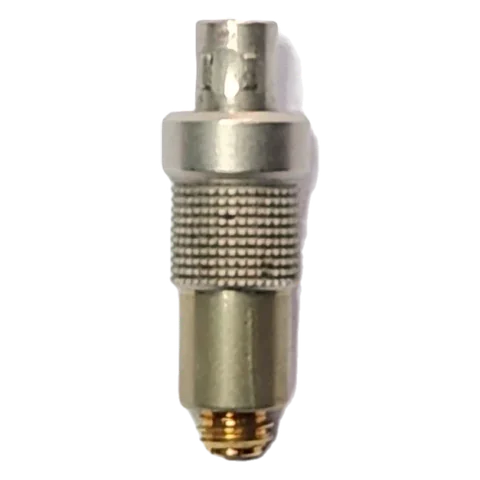
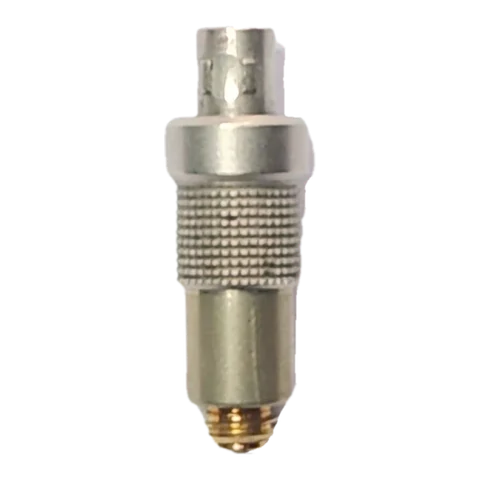
v1.46: cartas sem reordenar, adaptador por unidade, fotos dos adaptadores
Claude-Session: https://claude.ai/code/session_01BhtL332448fDQDCKgyvfQU

Changed region(s): [[0.3125, 0.0312, 0.6875, 0.9688]]

diff --git a/index.html b/index.html
@@ -514,11 +514,20 @@ ul.imd{font-size:.84rem;margin:.3rem 0 0;padding-left:1.2rem}
 @media(hover:hover) and (pointer:fine){.carseta{display:grid;place-items:center}}
 .carrossel,.grid.carr{cursor:grab}.arrastando{cursor:grabbing;scroll-snap-type:none!important;user-select:none}
 .arrastando *{pointer-events:none}
+
+/* v1.46 · unidades de adaptador */
+.adrow{display:flex;align-items:center;gap:.4rem;flex-wrap:wrap;margin:.1rem 0 .4rem;padding:.45rem .55rem;border:1px dashed var(--line);border-radius:8px}
+.adrow .adtit{font-size:.8rem;font-weight:700;color:var(--ink2);margin-right:.2rem}
+.adrow .adfoto{width:2.2rem;height:2.2rem;position:relative;display:inline-block}.adrow .adfoto img,.adrow .adfoto svg{width:100%;height:100%;object-fit:contain}
+.adun{display:flex;flex-direction:column;align-items:center;border:1.5px solid var(--line);background:var(--paper);border-radius:8px;padding:.2rem .55rem;min-width:3.4rem;cursor:pointer}
+.adun b{font:700 1rem var(--fc)}.adun small{font-size:.68rem;color:var(--ink2)}
+.adun.sel{border-color:var(--ink);background:var(--ink);color:#fff}.adun.sel small{color:#c6cbd2}
+.adun:disabled{opacity:.45;cursor:not-allowed}
 </style>
 </head>
 <body>
 <header class="top">
-  <div><h1>Perícia Lab · Carômetro</h1><small>Quem está com qual transmissor e cápsula, episódio a episódio · <span id="versao">v1.45 · 28/10 15:50</span></small></div>
+  <div><h1>Perícia Lab · Carômetro</h1><small>Quem está com qual transmissor e cápsula, episódio a episódio · <span id="versao">v1.46 · 28/10 16:30</span></small></div>
   <div class="sp"></div>
   <button class="pill" id="status" type="button" data-act="sync">carregando…</button>
 </header>
@@ -632,7 +641,7 @@ function normalizar(R){
   d.elenco=linhas(R,'elenco').map(function(o,ix){return {ix:ix,id:str(o['ID']),nome:str(o['Nome'])||str(o['ID']),papel:str(o['Papel']).toUpperCase()||'PARTICIPANTE',colinha:str(o['Colinha (pista)']),foto:str(o['Foto']),elim:int(o['Eliminado após EP']),obs:str(o['Observações']),pista:str(o['Nome de pista'])};}).filter(function(p){return p.id;});
   d.elenco.sort(function(a,b){return (ORDEM_PAPEL[a.papel]==null?9:ORDEM_PAPEL[a.papel])-(ORDEM_PAPEL[b.papel]==null?9:ORDEM_PAPEL[b.papel])||nat(a.colinha||'99',b.colinha||'99')||a.ix-b.ix;});
   d.pPor={};d.elenco.forEach(function(p){d.pPor[p.id]=p;});
-  d.esc=linhas(R,'esc').map(function(o){return {ep:int(o['EP']),id:str(o['ID']),tx:str(o['TX']),cap:str(o['Cápsula']),time:normTime(o['Time']),obs:str(o['Observações']),em:str(o['Atualizado em']),por:str(o['Por'])};}).filter(function(r){return r.ep&&r.id;});
+  d.esc=linhas(R,'esc').map(function(o){return {ep:int(o['EP']),id:str(o['ID']),tx:str(o['TX']),cap:str(o['Cápsula']),ad:str(o['Adaptador']),time:normTime(o['Time']),obs:str(o['Observações']),em:str(o['Atualizado em']),por:str(o['Por'])};}).filter(function(r){return r.ep&&r.id;});
   d.eps=linhas(R,'eps').map(function(o){return {ep:int(o['EP']),a:int(campo(o,['Time A','Vermelho','Equipe A'])),b:int(campo(o,['Time B','Azul','Equipe B'])),data:str(o['Data de gravação'])};}).filter(function(e){return e.ep;}).sort(function(a,b){return a.ep-b.ep;});
   if(!d.eps.length)for(var i=1;i<=8;i++)d.eps.push({ep:i,a:0,b:0,data:''});
   d.imp=linhas(R,'imp').map(function(o){return {gerado:str(o['Report gerado em']),em:str(o['Importado em']),por:str(o['Por']),n:str(o['Transmissores atualizados']),mud:str(o['Mudanças']),nao:str(o['Nomes sem correspondência'])};});
@@ -654,10 +663,11 @@ function aplicar(R,op){
     for(i=R.esc.length-1;i>=0;i--)if(int(R.esc[i]['EP'])===op.ep&&str(R.esc[i]['ID'])===op.id){achou=R.esc[i];break;}
     if(!achou){
       var ef=efetivoCru(R,op.ep)[op.id]||{};
-      achou={'EP':op.ep,'ID':op.id,'Nome':'','TX':ef.tx||'','Cápsula':ef.cap||'','Time':ef.time||'','Observações':ef.obs||''};
+      achou={'EP':op.ep,'ID':op.id,'Nome':'','TX':ef.tx||'','Cápsula':ef.cap||'','Time':ef.time||'','Observações':ef.obs||'','Adaptador':ef.ad||''};
       R.esc.push(achou);
     }
-    ['tx','cap','time','obs'].forEach(function(k){if(op[k]!==undefined)achou[{tx:'TX',cap:'Cápsula',time:'Time',obs:'Observações'}[k]]=op[k];});
+    if(op.cap!==undefined&&op.ad===undefined&&str(achou['Cápsula'])!==String(op.cap))achou['Adaptador']='';
+    ['tx','cap','time','obs','ad'].forEach(function(k){if(op[k]!==undefined)achou[{tx:'TX',cap:'Cápsula',time:'Time',obs:'Observações',ad:'Adaptador'}[k]]=op[k];});
     achou['Atualizado em']=agora();achou['Por']=op.por||'';
   }else if(op.acao==='eliminar'){
     R.elenco.forEach(function(p){if(str(p['ID'])===op.id)p['Eliminado após EP']=op.ep||'';});
@@ -705,7 +715,7 @@ function aplicar(R,op){
 function efetivoCru(R,ep){
   var m={};
   (R.esc||[]).forEach(function(r,i){var e=int(r['EP']),id=str(r['ID']);if(!(e<=ep))return;var c=m[id];
-    if(!c||e>c.ep||(e===c.ep&&i>c.i))m[id]={ep:e,i:i,tx:str(r['TX']),cap:str(r['Cápsula']),time:str(r['Time']),obs:str(r['Observações'])};});
+    if(!c||e>c.ep||(e===c.ep&&i>c.i))m[id]={ep:e,i:i,tx:str(r['TX']),cap:str(r['Cápsula']),time:str(r['Time']),obs:str(r['Observações']),ad:str(r['Adaptador'])};});
   return m;
 }
 function recalcular(){
@@ -748,7 +758,7 @@ function situacao(ep){
       var c=e&&e.cap?D.capPor[e.cap]:null;
       var cc=c&&t?compatCap(c,t):{ok:true};
       if(!cc.ok)av.push({k:'bad',t:'cápsula '+c.id+': '+cc.motivo,c:'cápsula incompatível'});
-      else if(cc.ad){var aq=D.capPor[cc.adId],usados=(adaptUso(ep,'')[cc.adId]||0);if(aq&&usados>aq.qtd)av.push({k:'bad',t:'faltam adaptadores MicroDot → '+cc.ad+': '+usados+' em uso, '+aq.qtd+' disponíveis',c:'falta adaptador'});}
+      else if(cc.ad){var aq=D.capPor[cc.adId],usados=(adaptUso(ep,'')[cc.adId]||0);if(!e.ad)av.push({k:'pend',t:'escolher a unidade do adaptador MicroDot → '+cc.ad,c:'adaptador?'});else{var qa=adQuem(ep,p.id)[e.ad];if(qa&&qa.length)av.push({k:'bad',t:'adaptador '+adCurto(e.ad)+' também está com '+D.pPor[qa[0]].nome,c:'adaptador repetido'});}if(aq&&usados>aq.qtd)av.push({k:'bad',t:'faltam adaptadores MicroDot → '+cc.ad+': '+usados+' em uso, '+aq.qtd+' disponíveis',c:'falta adaptador'});}
       if(c&&c.manut)av.push({k:'warn',t:'cápsula '+c.id+' precisa de manutenção',c:'cápsula em manutenção'});
       if(c&&c.dev&&ep>c.dev)av.push({k:'bad',t:'cápsula '+c.id+' foi devolvida após o EP '+c.dev});
       if(t&&t.num!=='GN'&&!t.rx)av.push({k:'warn',t:'TX sem receptor fixo'});
@@ -857,6 +867,11 @@ function compatCap(c,t){
   return {ok:false,ad:'',motivo:'conector '+c.term+' não entra no '+t.conector+' do '+t.nome};
 }
 /* adaptadores em uso no episódio (sem contar a pessoa exceto) */
+/* unidades de cada adaptador: "AD MicroDot-TA5F #1"… (Qtd da aba Cápsulas) */
+function unidadesAd(adId){var a=D.capPor[adId];if(!a)return [];var n=a.qtd||1,L=[];for(var i=1;i<=n;i++)L.push(adId+' #'+i);return L;}
+function adCurto(u){var m=/^(.*) #(\d+)$/.exec(u||'');if(!m)return u||'';var a=D.capPor[m[1]];return (a&&a.para?a.para:m[1])+' #'+m[2];}
+/* quem está com cada unidade (sem contar a pessoa exceto) */
+function adQuem(ep,exceto){var EF=efetivo(ep),q={};D.elenco.forEach(function(p){if(p.id===exceto||!ativo(p,ep))return;var e=EF[p.id];if(e&&e.ad)(q[e.ad]=q[e.ad]||[]).push(p.id);});return q;}
 function adaptUso(ep,exceto){
   var EF=efetivo(ep),u={};
   D.elenco.forEach(function(p){if(p.id===exceto||!ativo(p,ep))return;var e=EF[p.id];if(!e||!e.cap||!e.tx)return;
@@ -898,7 +913,7 @@ function cardHtml(x,col){
     fotoGrande(p,1)+(function(){var r=/^(HOST|MENTOR)$/.test(p.papel)?papelTxt(p):'';var tx=r;return tx?'<span class="papel">'+esc(tx)+'</span>':'';})()+(tc?'<span class="timefaixa">'+esc(timeNome(e.time))+'</span>':'')+
     '<span class="bd"><span class="nm" title="'+esc(p.nome)+'">'+esc(primeiroNome(p))+'</span>'+
     (x.ativo?'<span class="eq">'+(e&&e.tx?'<span class="tag" title="TX '+esc(e.tx)+'">'+esc(txNome(t,e.tx))+'</span>':'<span class="tag vazio">TX –</span>')+
-      (e&&e.cap?capTag(e.cap)+invIcon(e.cap)+(function(){var k=compatCap(D.capPor[e.cap],t);return k.ok&&k.ad?'<span class="chip pend" title="adaptador MicroDot → '+esc(k.ad)+'">+AD '+esc(k.ad)+'</span>':'';})():'')+'</span>'+
+      (e&&e.cap?capTag(e.cap)+invIcon(e.cap)+(function(){var k=compatCap(D.capPor[e.cap],t);return k.ok&&k.ad?'<span class="chip pend" title="adaptador MicroDot → '+esc(k.ad)+'">+AD '+esc(e.ad?adCurto(e.ad):k.ad)+'</span>':'';})():'')+'</span>'+
       rf+
       (t?'<span class="ligacao">'+(rx?'<span class="rxt">'+esc(rx)+'</span>':'')+(t.canal?'<span class="inp">'+esc(t.canal)+'</span>':'')+'</span>':'')+
       (x.av.length?'<span class="al">'+chips(x.av,2)+'</span>':'')
@@ -978,7 +993,7 @@ function configsHtml(s){
 }
 function estadoAtual(){
   var s=situacao(UI.ep),car={};
-  s.pessoas.forEach(function(x){if(!x.ativo||!x.e)return;var e=x.e;if(e.tx||e.cap||e.time)car[x.p.id]={tx:e.tx||'',cap:e.cap||'',time:e.time||''};});
+  s.pessoas.forEach(function(x){if(!x.ativo||!x.e)return;var e=x.e;if(e.tx||e.cap||e.time)car[x.p.id]={tx:e.tx||'',cap:e.cap||'',time:e.time||'',ad:e.ad||''};});
   return car;
 }
 function salvarConfig(id,nome){
@@ -992,13 +1007,13 @@ function escalarVarios(ops){
 }
 function zerarTudo(){
   var s=situacao(UI.ep),ops=[];
-  s.pessoas.forEach(function(x){if(x.ativo&&x.e&&(x.e.tx||x.e.cap))ops.push({acao:'escalar',ep:UI.ep,id:x.p.id,tx:'',cap:''});});
+  s.pessoas.forEach(function(x){if(x.ativo&&x.e&&(x.e.tx||x.e.cap))ops.push({acao:'escalar',ep:UI.ep,id:x.p.id,tx:'',cap:'',ad:''});});
   return ops;
 }
 function recuperarConfig(id){
   var c=D.configs.filter(function(x){return x.id===id;})[0];if(!c)return;
   var s=situacao(UI.ep),ops=zerarTudo();
-  s.pessoas.forEach(function(x){var v=c.car[x.p.id];if(!x.ativo||!v)return;ops.push({acao:'escalar',ep:UI.ep,id:x.p.id,tx:v.tx||'',cap:v.cap||'',time:v.time||''});});
+  s.pessoas.forEach(function(x){var v=c.car[x.p.id];if(!x.ativo||!v)return;ops.push({acao:'escalar',ep:UI.ep,id:x.p.id,tx:v.tx||'',cap:v.cap||'',time:v.time||'',ad:v.ad||''});});
   return ops;
 }
 function ordenar(L,ordem,col){
@@ -1041,7 +1056,7 @@ function linhasIL(){
   return {c:c,R:R,M:M,L:L,fora:fora};
 }
 function ilNome(x){return x.fx?x.nome:primeiroNome(x.p);}
-function ilMic(x){var e=x.e||{};if(x.fx||!e.cap)return '';var k=compatCap(D.capPor[e.cap],x.t);return capTag(e.cap,'sm')+invIcon(e.cap,1)+(k.ok&&k.ad?' <small class="ad">+AD</small>':'');}
+function ilMic(x){var e=x.e||{};if(x.fx||!e.cap)return '';var k=compatCap(D.capPor[e.cap],x.t);return capTag(e.cap,'sm')+invIcon(e.cap,1)+(k.ok&&k.ad?' <small class="ad">+AD'+(e.ad?' '+esc(adCurto(e.ad)):'')+'</small>':'');}
 function viewDoc(){
   var I=linhasIL(),fich=UI.fmt==='fichas',s=situacao(UI.ep);
   var h='<div class="bar noprint"><span class="seg" role="group" aria-label="Formato"><button type="button" data-act="fmt" data-v="lista" aria-pressed="'+!fich+'">Lista</button><button type="button" data-act="fmt" data-v="fichas" aria-pressed="'+fich+'">Fichas</button></span>'+
@@ -1175,20 +1190,27 @@ function wizHtml(x,s){
   h+=passos;
   if(W.passo==='tx'){
     var txs=D.tx.filter(function(t2){return !t2.mon&&(tipo==='gooseneck'?t2.num==='GN':t2.num!=='GN');});
-    txs.sort(function(a,b){var ua=(s.uso.tx[a.num]||[]).filter(function(i){return i!==p.id;}).length,ub=(s.uso.tx[b.num]||[]).filter(function(i){return i!==p.id;}).length;return (a.num===W.tx?-1:b.num===W.tx?1:0)||ua-ub||(int(a.num)||90)-(int(b.num)||90);});
+    if(!W.ordTx){txs.sort(function(a,b){var ua=(s.uso.tx[a.num]||[]).filter(function(i){return i!==p.id;}).length,ub=(s.uso.tx[b.num]||[]).filter(function(i){return i!==p.id;}).length;return (a.num===W.tx?-1:b.num===W.tx?1:0)||ua-ub||(int(a.num)||90)-(int(b.num)||90);});W.ordTx=txs.map(function(t2){return t2.num;});}
+    else txs.sort(function(a,b){return W.ordTx.indexOf(a.num)-W.ordTx.indexOf(b.num);});
     h+='<div class="carwrap"><button type="button" class="carseta e" data-act="carseta" data-d="-1" aria-label="Anterior">‹</button><div class="carrossel">'+txs.map(function(t2){return cartaTx(t2,s,p,W.tx===t2.num);}).join('')+'</div><button type="button" class="carseta d" data-act="carseta" data-d="1" aria-label="Próximo">›</button></div>';
     h+='<div class="wizbar"><button class="btn" type="button" data-act="wizsem" data-v="tx">Sem transmissor</button><span class="sp"></span><button class="btn" type="button" data-act="wizir" data-v="cap">Cápsula →</button>'+(mudouWiz(x)?'<button class="btn pri" type="button" data-act="wizok">OK</button>':'')+'</div>';
   }else{
     var t=W.tx?D.txPor[W.tx]:null,usoAd=adaptUso(UI.ep,p.id);
     var caps=D.cap.filter(function(c){return c.tipo===tipo;});
-    caps.sort(function(a,b){var ka=(!t||compatCap(a,t).ok)&&!(s.uso.cap[a.id]||[]).filter(function(i){return i!==p.id;}).length,kb=(!t||compatCap(b,t).ok)&&!(s.uso.cap[b.id]||[]).filter(function(i){return i!==p.id;}).length;return (a.id===W.cap?-1:b.id===W.cap?1:0)||(kb-ka)||nat(a.id,b.id);});
+    if(!W.ordCap||W.ordCapTx!==W.tx){caps.sort(function(a,b){var ka=(!t||compatCap(a,t).ok)&&!(s.uso.cap[a.id]||[]).filter(function(i){return i!==p.id;}).length,kb=(!t||compatCap(b,t).ok)&&!(s.uso.cap[b.id]||[]).filter(function(i){return i!==p.id;}).length;return (a.id===W.cap?-1:b.id===W.cap?1:0)||(kb-ka)||nat(a.id,b.id);});W.ordCap=caps.map(function(c){return c.id;});W.ordCapTx=W.tx;}
+    else caps.sort(function(a,b){return W.ordCap.indexOf(a.id)-W.ordCap.indexOf(b.id);});
     h+='<p class="hint" style="margin:.2rem 0 .4rem">'+(t?'No '+esc(t.nome)+(t.conector?' (entrada '+esc(t.conector)+')':''):'Sem transmissor')+'</p>';
     h+='<div class="carwrap"><button type="button" class="carseta e" data-act="carseta" data-d="-1" aria-label="Anterior">‹</button><div class="carrossel">'+caps.map(function(c){return cartaCap(c,s,p,t,W.cap===c.id,usoAd);}).join('')+'</div><button type="button" class="carseta d" data-act="carseta" data-d="1" aria-label="Próximo">›</button></div>';
+    var kc=W.cap&&t?compatCap(D.capPor[W.cap],t):null;
+    if(kc&&kc.ok&&kc.ad){var us=unidadesAd(kc.adId),qa=adQuem(UI.ep,p.id);
+      if(!W.ad||us.indexOf(W.ad)<0){W.ad=us.filter(function(u){return !qa[u];})[0]||'';}
+      h+='<div class="adrow"><span class="adtit">Adaptador MicroDot → '+esc(kc.ad)+'</span><span class="adfoto">'+fotoEquip('cap',D.capPor[kc.adId])+'</span>'+us.map(function(u){var com=qa[u];return '<button type="button" class="adun'+(W.ad===u?' sel':'')+'" data-act="wizad" data-v="'+esc(u)+'"'+(com&&W.ad!==u?' disabled':'')+'><b>#'+esc(u.split(' #')[1])+'</b><small>'+(com?esc(primeiroNome(D.pPor[com[0]])):'livre')+'</small></button>';}).join('')+'</div>';
+    }else W.ad='';
     h+='<div class="wizbar"><button class="btn" type="button" data-act="wizir" data-v="tx">← Transmissor</button><button class="btn" type="button" data-act="wizsem" data-v="cap">Sem cápsula</button><span class="sp"></span><button class="btn pri" type="button" data-act="wizok"'+(mudouWiz(x)?'':' disabled')+'>OK</button></div>';
   }
   return h;
 }
-function mudouWiz(x){var e=x.e||{};return !!WIZ&&((WIZ.tx||'')!==(e.tx||'')||(WIZ.cap||'')!==(e.cap||''));}
+function mudouWiz(x){var e=x.e||{};return !!WIZ&&((WIZ.tx||'')!==(e.tx||'')||(WIZ.cap||'')!==(e.cap||'')||(WIZ.ad||'')!==(e.ad||''));}
 function resumoEsc(x){
   var e=x.e||{},t=x.t;
   var rf=t&&t.num!=='GN'?[isNaN(t.freq)?'':mhz(t.freq)+' MHz',t.cod?'código '+t.cod:''].filter(Boolean).join(' · '):'';
@@ -1209,7 +1231,7 @@ function editorHtml(){
   }
   if(x.av.length)h+='<div class="alertas">'+x.av.map(function(a){
       return '<div class="alerta '+a.k+'">'+esc(a.t[0].toUpperCase()+a.t.slice(1))+(a.ajuste?' (TX '+esc(t.num)+' em '+mhz(t.freq)+' MHz)<span class="sp"></span><button class="btn sm" type="button" data-act="ajustado" data-tx="'+esc(t.num)+'">Já ajustei</button>':'')+'</div>';}).join('')+'</div>';
-  if(!WIZ||WIZ.id!==p.id)WIZ={id:p.id,passo:'tx',tx:e.tx||'',cap:e.cap||''};
+  if(!WIZ||WIZ.id!==p.id)WIZ={id:p.id,passo:'tx',tx:e.tx||'',cap:e.cap||'',ad:e.ad||''};
   h+=wizHtml(x,s);
   {
     if(p.papel==='MENTOR'&&t&&t.rxM)h+='<p class="hint">Sala dos mentores: '+esc(t.rxM)+' · '+esc(t.canalM)+'</p>';
@@ -1223,16 +1245,19 @@ function editorHtml(){
   return h;
 }
 function abrir(id){EDIT=id;var s=situacao(UI.ep),x=s.pessoas.filter(function(y){return y.p.id===id;})[0],e=(x&&x.e)||{};
-  WIZ=x&&x.ativo?{id:id,passo:'tx',tx:e.tx||'',cap:e.cap||''}:null;renderModal();}
+  WIZ=x&&x.ativo?{id:id,passo:'tx',tx:e.tx||'',cap:e.cap||'',ad:e.ad||''}:null;renderModal();}
 function fechar(){
   if(EDIT&&WIZ){var x=situacao(UI.ep).pessoas.filter(function(y){return y.p.id===EDIT;})[0];
-    if(x&&mudouWiz(x)&&confirm('Salvar a troca de transmissor/cápsula antes de fechar?'))fazer({acao:'escalar',ep:UI.ep,id:EDIT,tx:WIZ.tx,cap:WIZ.cap});}
+    if(x&&mudouWiz(x)&&confirm('Salvar a troca de transmissor/cápsula antes de fechar?'))fazer({acao:'escalar',ep:UI.ep,id:EDIT,tx:WIZ.tx,cap:WIZ.cap,ad:WIZ.ad||''});}
   EDIT=null;WIZ=null;renderModal();render();}
+var RM_ID=null;
 function renderModal(){
   var m=$('#modal');
-  var car=m.querySelector('.carrossel'),sx=car?car.scrollLeft:0,passo=WIZ&&WIZ.passo;
-  m.innerHTML=EDIT?editorHtml():FORM?formHtml():'';
-  var c2=m.querySelector('.carrossel');if(c2&&passo===(WIZ&&WIZ.passo))c2.scrollLeft=sx;
+  var car=m.querySelector('.carrossel'),sx=car?car.scrollLeft:0,passo=WIZ&&WIZ.passo,sh=m.querySelector('.sheet'),sy=sh?sh.scrollTop:0,mesmo=!!EDIT&&RM_ID===EDIT;
+  m.innerHTML=EDIT?editorHtml():FORM?formHtml():'';RM_ID=EDIT;
+  var c2=m.querySelector('.carrossel'),sh2=m.querySelector('.sheet');
+  function volta(){if(c2&&passo===(WIZ&&WIZ.passo)){c2.style.scrollSnapType='none';c2.scrollLeft=sx;c2.style.scrollSnapType='';}if(sh2&&mesmo)sh2.scrollTop=sy;}
+  volta();requestAnimationFrame(volta);
   ligarArraste(m);
   document.body.style.overflow=EDIT||FORM?'hidden':'';
 }
@@ -2413,10 +2438,11 @@ document.addEventListener('click',function(ev){
   else if(a==='eliminar'){var pe=D.pPor[EDIT];if(pe&&confirm('Eliminar '+primeiroNome(pe)+'? O transmissor e a cápsula ficam livres. Dá para recuperar depois.')){fazer({acao:'eliminar',id:EDIT,ep:UI.ep});toast(primeiroNome(pe)+' eliminado');fechar();}}
   else if(a==='wizabrir'){var x0=situacao(UI.ep).pessoas.filter(function(y){return y.p.id===EDIT;})[0]||{};var e0=x0.e||{};WIZ={id:EDIT,passo:'tx',tx:e0.tx||'',cap:e0.cap||''};renderModal();}
   else if(a==='wiztx'){if(ARRASTOU)return;WIZ.tx=v;renderModal();}
-  else if(a==='wizcap'){if(ARRASTOU)return;WIZ.cap=v;renderModal();}
+  else if(a==='wizcap'){if(ARRASTOU)return;if(WIZ.cap!==v)WIZ.ad='';WIZ.cap=v;renderModal();}
+  else if(a==='wizad'){WIZ.ad=v;renderModal();}
   else if(a==='wizsem'){if(v==='tx'){WIZ.tx='';WIZ.passo='cap';}else WIZ.cap='';renderModal();}
   else if(a==='wizir'){WIZ.passo=v;renderModal();}
-  else if(a==='wizok'){fazer({acao:'escalar',ep:UI.ep,id:EDIT,tx:WIZ.tx,cap:WIZ.cap});WIZ.passo='tx';renderModal();toast('Escalação salva');}
+  else if(a==='wizok'){fazer({acao:'escalar',ep:UI.ep,id:EDIT,tx:WIZ.tx,cap:WIZ.cap,ad:WIZ.ad||''});WIZ.passo='tx';renderModal();toast('Escalação salva');}
   else if(a==='carseta'){var cw=el.parentNode.querySelector('.carrossel,.grid.carr');if(cw)cw.scrollBy({left:(+el.dataset.d)*cw.clientWidth*0.8,behavior:'smooth'});}
   else if(a==='cfgtog'){UI.cfgAberto=!UI.cfgAberto;salvarUi();render();}
   else if(a==='cfgsalvar'){var nm=($('#cfgnome').value||'').trim();if(!nm){toast('Dê um nome à configuração.',true);return;}salvarConfig('car:'+Date.now().toString(36),nm);toast('Configuração salva');}

diff --git a/CHANGELOG.md b/CHANGELOG.md
@@ -5,6 +5,11 @@
 
 
 
+## v1.46 · 28/10/2026
+- As cartas de transmissor e cápsula ficam na ordem em que abriram (escolhido primeiro, ocupados no fim); tocar numa carta não reordena nem rola a lista.
+- Adaptador por unidade: quando a cápsula pede adaptador, aparece a fileira "Adaptador MicroDot → TA5F/Lemo 3" com #1…#N (livre ou com quem está). A unidade fica gravada na Escalação (coluna Adaptador, criada pelo Apps Script 1.42), aparece no card ("+AD TA5F #2") e na Input list; quem usa adaptador sem unidade ganha o aviso "adaptador?".
+- Fotos dos adaptadores refeitas: retas, recorte do Lemo corrigido e iluminação do TA5F igualada.
+
 ## v1.45 · 28/10/2026
 - Fotos das cápsulas e dos adaptadores (DPA 4060, 6060, 6061 B e P; COS11 P, R, N e B; TL47 B e 2; MicroDot → TA5F e → Lemo 3), recortadas sem fundo.
 - Rostos centralizados nos cards do Carômetro (enquadramento calculado por detecção de rosto em cada foto; Rafael desce no quadro, Bárbaro ganha zoom). Foto trocada depois volta ao enquadramento central.
